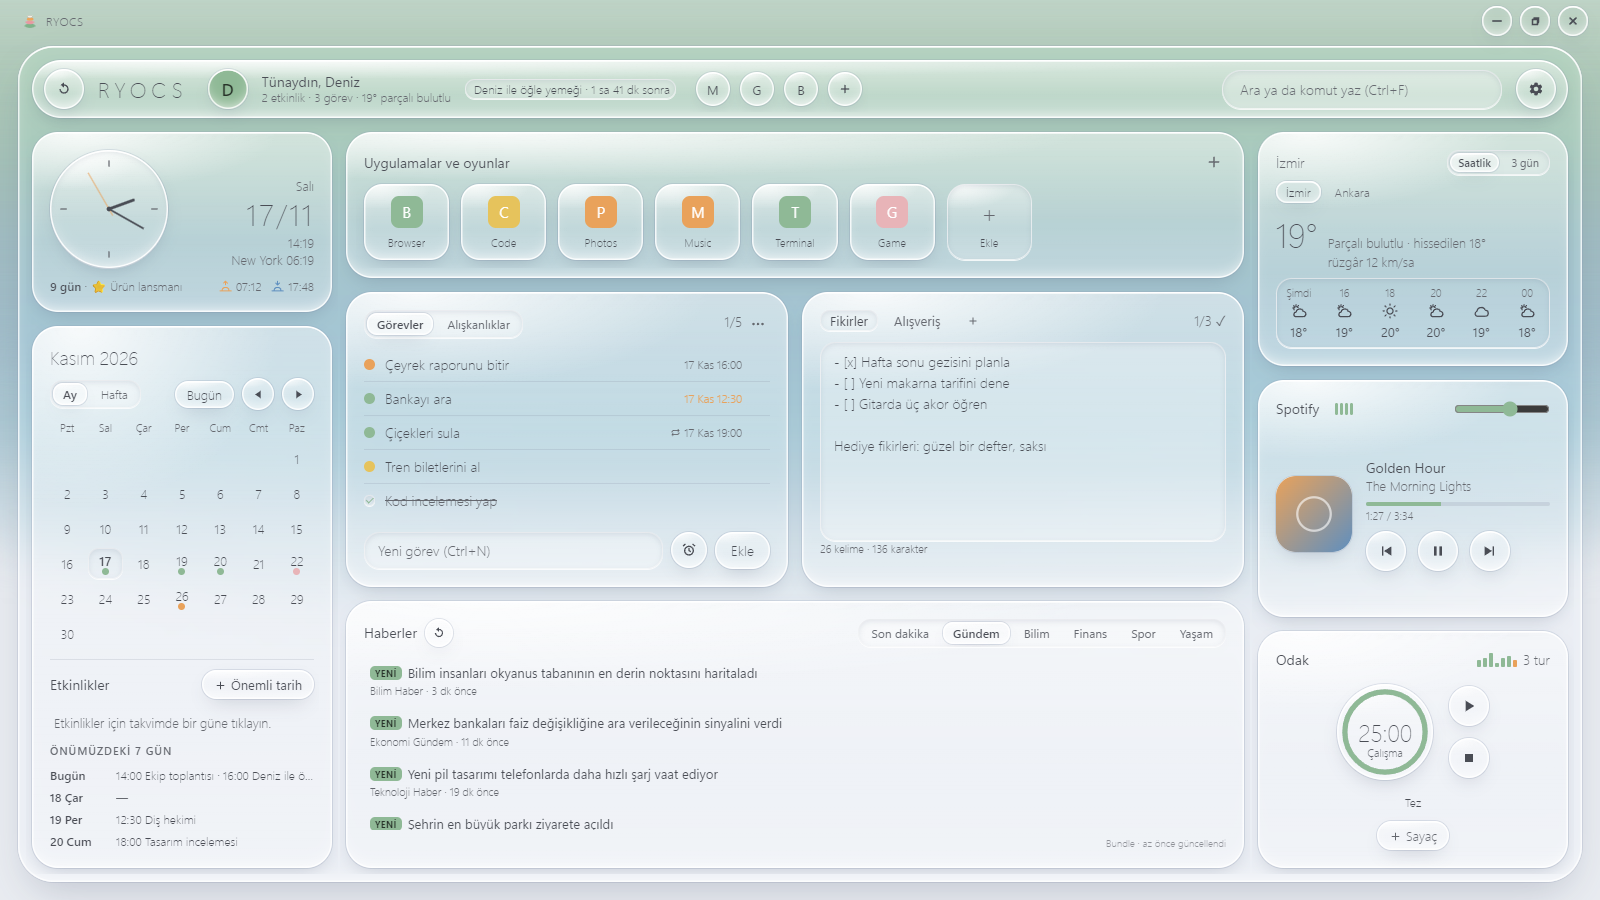
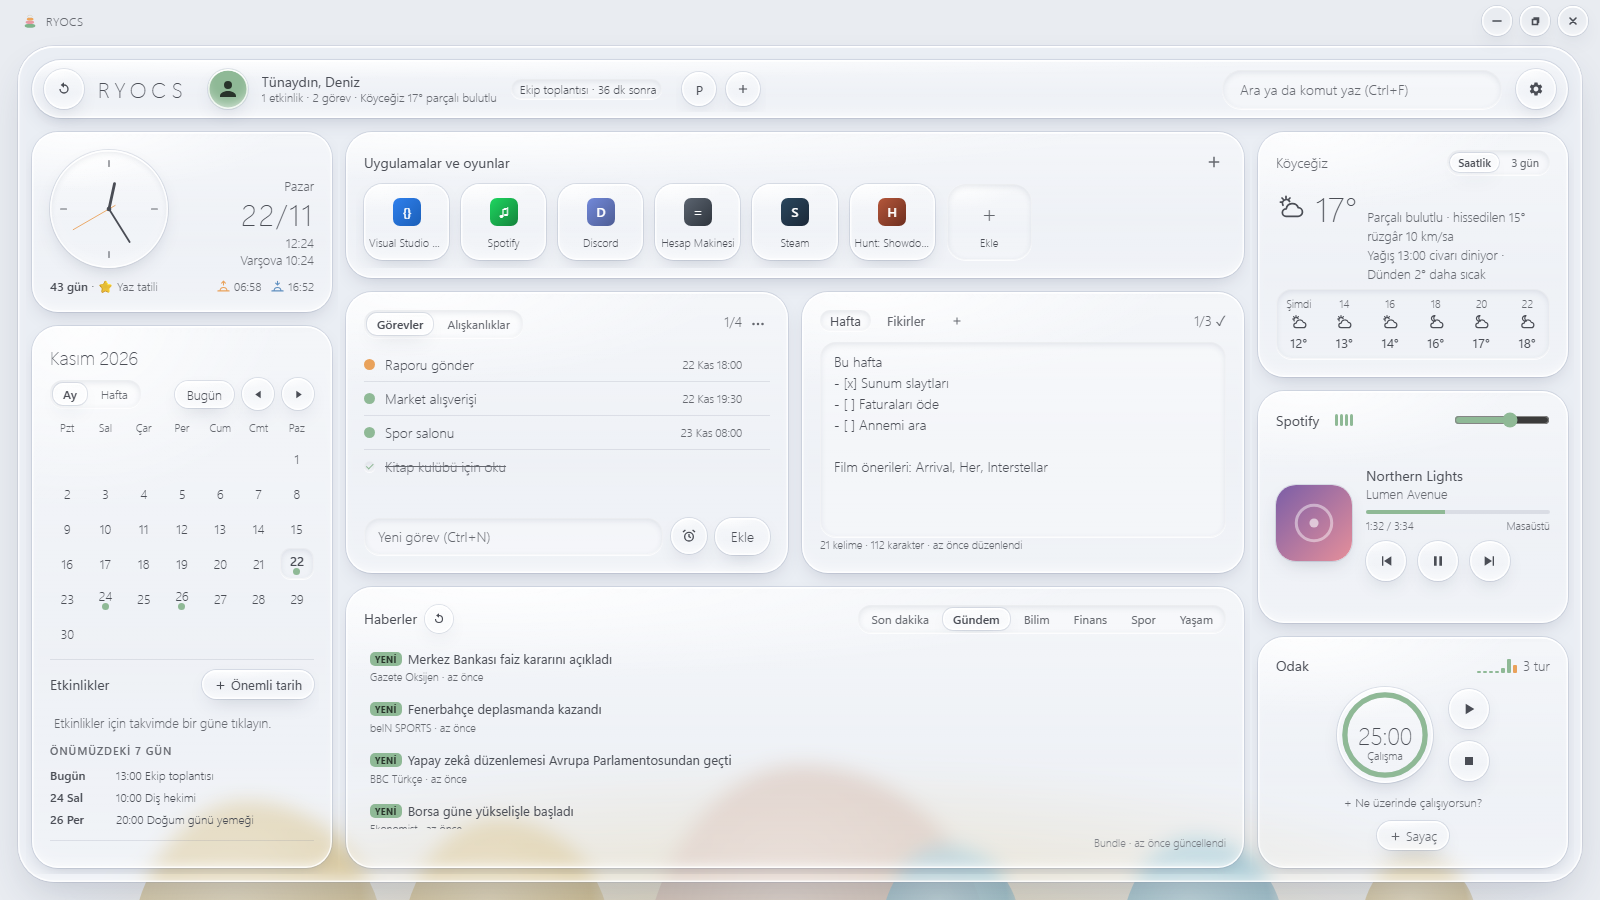
New screenshots and feature texts for 1.1.9
All screenshots retaken with demo data in English and Turkish, plus two new
ones (large weather card, screen time). The project page's feature boxes now
list what the cards gained in 1.1.5–1.1.9, with a new Screen time box.

diff --git a/docs/index.html b/docs/index.html
@@ -94,19 +94,20 @@ dialog img{display:block;max-width:100%;max-height:92vh;border-radius:12px}
   <h2 data-tr="Gün içinde baktığın her şey">Everything you check during the day</h2>
   <p class="lead" data-tr="Her kart taşınabilir, boyutlandırılabilir, gizlenebilir ve zevkine göre ayarlanabilir. Yalnız ihtiyacın olanları aç.">Each card can be moved, resized, hidden or tuned to taste. Turn on only what you need.</p>
   <div class="grid">
-    <div class="f"><i>🕐</i><h3 data-tr="Saat">Clock</h3><p data-tr="On kadran stili, 36 şehirden ikinci saat, gün doğumu ve batımı, geri sayımlar.">Ten dial styles, a second clock with 36 cities, sunrise and sunset, and countdowns.</p></div>
-    <div class="f"><i>📅</i><h3 data-tr="Google Takvim">Google Calendar</h3><p data-tr="Ay ve hafta görünümü; etkinlik ekle, düzenle, sil; doğum günleri, önemli tarihler ve resmî tatiller.">Month and week views; add, edit and delete events; birthdays, important dates and your regional holidays.</p></div>
-    <div class="f"><i>✅</i><h3 data-tr="Görevler ve alışkanlıklar">Tasks and habits</h3><p data-tr="Hatırlatıcılar, istediğin günlerde tekrar, öncelikler, geciken görevler ve alışkanlık serileri.">Reminders, repeats on any days you like, priorities, overdue tracking and habit streaks.</p></div>
-    <div class="f"><i>📝</i><h3 data-tr="Notlar">Notes</h3><p data-tr="Yapılacak kutulu hızlı notlar, sekmelerde birden çok not, kelime sayısı ve arama.">Quick notes with checklists, several notes in tabs, word count and full search.</p></div>
+    <div class="f"><i>🕐</i><h3 data-tr="Saat">Clock</h3><p data-tr="On kadran stili, alarmlar, 36 şehirden ikinci saat, gün doğumu ve batımı, geri sayımlar.">Ten dial styles, alarms, a second clock with 36 cities, sunrise and sunset, and countdowns.</p></div>
+    <div class="f"><i>📅</i><h3 data-tr="Google Takvim">Google Calendar</h3><p data-tr="Ay ve hafta görünümü; etkinlik ekle, düzenle, sil; toplantıya tek tıkla katıl ya da yeri haritada aç; doğum günleri, önemli tarihler ve resmî tatiller.">Month and week views; add, edit and delete events; join a meeting or open the place in Maps with one click; birthdays, important dates and your regional holidays.</p></div>
+    <div class="f"><i>✅</i><h3 data-tr="Görevler ve alışkanlıklar">Tasks and habits</h3><p data-tr="Sonuna “yarın 15:00” yaz, hatırlatıcı kurulsun; erteleme, istediğin günlerde tekrar, öncelikler ve alışkanlık serileri.">Type “tomorrow 3 pm” at the end for a reminder; snooze, repeats on any days you like, priorities and habit streaks.</p></div>
+    <div class="f"><i>📝</i><h3 data-tr="Notlar">Notes</h3><p data-tr="Yapılacak kutulu hızlı notlar, sekmelerde birden çok not, işaretlenenleri tek seferde temizleme, kelime sayısı ve arama.">Quick notes with checklists, several notes in tabs, clearing checked items in one go, word count and full search.</p></div>
     <div class="f"><i>⛅</i><h3 data-tr="Hava durumu">Weather</h3><p data-tr="Open-Meteo'dan saatlik ve 7 günlük tahmin, beş şehre kadar; aynı adlı yerlerde doğru olanı sen seçersin. Yağmurun ne zaman başlayacağı, dünle kıyas, hava kalitesi ve polen; sabah uyarısı ve akşam yarının havası.">Hourly and 7-day forecasts from Open-Meteo for up to five cities; when several places share a name, you pick the right one. When rain starts, the difference from yesterday, air quality and pollen; a morning alert and tomorrow's weather in the evening.</p></div>
-    <div class="f"><i>📰</i><h3 data-tr="Haberler">News</h3><p data-tr="Türkçede Bundle ve TRT Haber, İngilizcede BBC News. İstemediğin kelimeleri ve kaynakları gizle.">BBC News by category in English, Turkish sources in Turkish. Filter out keywords and sources.</p></div>
-    <div class="f"><i>🎵</i><h3 data-tr="Spotify">Spotify</h3><p data-tr="Çalan şarkıyı gör, geç, duraklat, sesi ayarla ve sıradakilere göz at.">See what is playing, skip, pause, change the volume and peek at what is up next.</p></div>
+    <div class="f"><i>📰</i><h3 data-tr="Haberler">News</h3><p data-tr="Türkçede Bundle ve TRT Haber, İngilizcede BBC News. İstemediğin kelimeleri ve kaynakları gizle, sonra okumak için kaydet.">BBC News by category in English, Turkish sources in Turkish. Filter out keywords and sources, save stories for later.</p></div>
+    <div class="f"><i>🎵</i><h3 data-tr="Spotify">Spotify</h3><p data-tr="Çalan şarkı ya da podcast; geç, duraklat, ileri sar, karıştır ve tekrarla, sesi ayarla, başka cihaza aktar ve sıradakilere göz at.">What is playing, podcasts too: skip, pause, seek, shuffle and repeat, change the volume, move playback to another device and peek at what is up next.</p></div>
     <div class="f"><i>⏱</i><h3 data-tr="Odak sayacı">Focus timer</h3><p data-tr="Günlük hedef ve seriyle pomodoro turları. Neye çalıştığını yaz, haftalık dökümünü gör, “Çalışma” ve “Mola” adlarını değiştir. Rahatsız etme, bildirimleri tur bitene kadar bekletir.">Pomodoro rounds with a daily goal and streak. Note what you are working on, see a weekly breakdown, and rename “Work” and “Break”. Do not disturb holds notifications until the round ends.</p></div>
-    <div class="f"><i>✉</i><h3 data-tr="Gmail">Gmail</h3><p data-tr="Gelen kutusundaki son 15 mail, okunmamışlar kalın. Tıklayınca tarayıcıda açılır, sağ tıkla okundu işaretlenir.">The last 15 messages in your inbox, unread ones in bold. Click to open in the browser, right-click to mark as read.</p></div>
-    <div class="f"><i>💱</i><h3 data-tr="Kur, sistem, pano">Rates, system, clipboard</h3><p data-tr="Döviz ve altın, işlemci, bellek, disk ve pil, ayrıca gizliliğe saygılı pano geçmişi.">Currency and gold prices, CPU, memory, disk and battery, and a private clipboard history.</p></div>
+    <div class="f"><i>✉</i><h3 data-tr="Gmail">Gmail</h3><p data-tr="Gelen kutusundaki son 15 mail, okunmamışlar kalın. Tıklayınca tarayıcıda açılır; sağ tıkla okundu ya da okunmadı işaretle, arşivle. Yeni mail gelince bildirim.">The last 15 messages in your inbox, unread ones in bold. Click to open in the browser; right-click to mark as read or unread, or to archive. A notification for new mail.</p></div>
+    <div class="f"><i>💱</i><h3 data-tr="Kur, sistem, pano">Rates, system, clipboard</h3><p data-tr="Çeviricili ve alarmlı döviz ve altın; son dakikasıyla işlemci, bellek, bütün diskler ve pil; sabitlenebilen, gizliliğe saygılı pano geçmişi.">Currency and gold with a converter and alerts; CPU with its last minute, memory, every drive and battery; a private clipboard history with pins.</p></div>
+    <div class="f"><i>⏳</i><h3 data-tr="Ekran süresi">Screen time</h3><p data-tr="Bugün ve son 7 günde hangi programda ne kadar kaldın; program başına günlük sınır ve uyarı. Sen açana kadar kapalı, veriler bilgisayarında kalır.">How long you spent in each program today and over the last 7 days, with a daily limit per program. Off until you open it; the data stays on your PC.</p></div>
     <div class="f"><i>🚀</i><h3 data-tr="Uygulamalar ve oyunlar">Apps and games</h3><p data-tr="Uygulamaları, oyunları ve Steam ya da Epic kısayollarını tek tıkla aç; son ve en çok açılanlar elinin altında.">Open apps, games and Steam or Epic shortcuts with one click, with recently and most opened ones at hand.</p></div>
     <div class="f"><i>🔎</i><h3 data-tr="Her şeyi ara">Search everything</h3><p data-tr="Ctrl+F ile uygulamaları, görevleri, notları, etkinlikleri ve komutları tek yerden bul.">Press Ctrl+F to find apps, tasks, notes, events and commands in one place.</p></div>
-    <div class="f"><i>🎨</i><h3 data-tr="Kendine göre ayarla">Make it yours</h3><p data-tr="16 tema, cam görünüm, lav lambası dahil 11 hareketli arka plan, vurgu renkleri, sürükleyerek boyutlandırma ve kayıtlı yerleşimler.">16 themes, glass look, 11 animated backgrounds including a lava lamp, accent colours, drag-to-resize layout and saved layouts.</p></div>
+    <div class="f"><i>🎨</i><h3 data-tr="Kendine göre ayarla">Make it yours</h3><p data-tr="16 tema, cam görünüm, lav lambası dahil 11 hareketli arka plan (ya da her açılışta rastgele biri), vurgu renkleri, sürükleyerek boyutlandırma ve kayıtlı yerleşimler.">16 themes, glass look, 11 animated backgrounds including a lava lamp (or a random one each time), accent colours, drag-to-resize layout and saved layouts.</p></div>
     <div class="f"><i>🖥</i><h3 data-tr="Tepside yaşar">Lives in the tray</h3><p data-tr="Kapatınca tepside çalışmaya devam eder; her yerden bir kısayolla aç, istersen Windows'la başlasın.">Closing keeps it running in the tray. Open it from anywhere with a shortcut, and let it start with Windows if you like.</p></div>
     <div class="f"><i>🔒</i><h3 data-tr="Gizlilik öncelikli">Private by design</h3><p data-tr="Verilerin kendi kullanıcı klasöründe kalır. İsteğe bağlı PIN kilidi, günlük yedek ve OneDrive eşitleme.">Your data stays in your user folder. Optional PIN lock, daily backups and OneDrive sync.</p></div>
     <div class="f"><i>🔔</i><h3 data-tr="Güncel kalır">Stays up to date</h3><p data-tr="Yeni sürüm çıkınca küçük bir bildirim ve indirme bağlantısı gösterir. Kurulumu sen başlatırsın; kendiliğinden hiçbir şey kurulmaz.">Shows a small notice with a download link when a new version is out. You start the install; nothing installs by itself.</p></div>
@@ -119,8 +120,10 @@ dialog img{display:block;max-width:100%;max-height:92vh;border-radius:12px}
   <div class="gal">
     <figure><img src="img/dark.png" data-tr-src="img/dark-tr.png" alt="Dark theme with Gmail, calendar, news, currency, system and clipboard cards" data-tr-alt="Gmail, takvim, haber, kur, sistem ve pano kartlarıyla koyu tema" loading="lazy" width="1600" height="900"><figcaption data-tr="Gmail, kur, sistem bilgisi ve pano geçmişiyle koyu tema">Dark theme with Gmail, rates, system info and clipboard history</figcaption></figure>
     <figure><img src="img/search.png" data-tr-src="img/search-tr.png" alt="Search results grouped into commands, tasks, habits, notes and events" data-tr-alt="Komut, görev, alışkanlık, not ve etkinlik olarak gruplanmış arama sonuçları" loading="lazy" width="1600" height="900"><figcaption data-tr="Uygulamalar, görevler, notlar, etkinlikler ve komutlar için tek arama kutusu">One search box for apps, tasks, notes, events and commands</figcaption></figure>
-    <figure><img src="img/settings.png" data-tr-src="img/settings-tr.png" alt="Appearance settings with light and dark themes" data-tr-alt="Açık ve koyu temalarla görünüm ayarları" loading="lazy" width="1600" height="900"><figcaption data-tr="On iki tema ve otomatik gündüz/gece geçişi">Twelve themes and an automatic day/night switch</figcaption></figure>
+    <figure><img src="img/settings.png" data-tr-src="img/settings-tr.png" alt="Appearance settings with light and dark themes" data-tr-alt="Açık ve koyu temalarla görünüm ayarları" loading="lazy" width="1600" height="900"><figcaption data-tr="On altı tema ve otomatik gündüz/gece geçişi">Sixteen themes and an automatic day/night switch</figcaption></figure>
     <figure><img src="img/glass.png" data-tr-src="img/glass-tr.png" alt="The dashboard in the glass look" data-tr-alt="Cam görünümde panel" loading="lazy" width="1600" height="900"><figcaption data-tr="Açık temada cam görünüm">The glass look on a light theme</figcaption></figure>
+    <figure><img src="img/weather.png" data-tr-src="img/weather-tr.png" alt="A large weather card with details, a 24-hour curve, air quality and a 7-day forecast" data-tr-alt="Ayrıntılar, 24 saatlik eğri, hava kalitesi ve 7 günlük tahminle büyük hava kartı" loading="lazy" width="1600" height="900"><figcaption data-tr="Büyütülen hava kartı: ayrıntılar, hava kalitesi, polen ve 7 gün">The weather card made large: details, air quality, pollen and 7 days</figcaption></figure>
+    <figure><img src="img/screentime.png" data-tr-src="img/screentime-tr.png" alt="The screen time card under the focus timer, in the night blue theme" data-tr-alt="Gece mavisi temada odak sayacının altında ekran süresi kartı" loading="lazy" width="1600" height="900"><figcaption data-tr="Ekran süresi: bugün hangi programda ne kadar kaldın, son 7 gün">Screen time: how long in each program today, and the last 7 days</figcaption></figure>
   </div>
 </div></section>
 

diff --git a/README.md b/README.md
@@ -17,6 +17,8 @@ The interface is in **English** and **Turkish**. It follows the Windows display 
 | ![Dark theme with Gmail, calendar, news, currency, system and clipboard cards](docs/img/dark.png) | ![Search results grouped into commands, tasks, habits, notes and events](docs/img/search.png) |
 | **Themes** | **Glass look** |
 | ![Appearance settings with light and dark themes](docs/img/settings.png) | ![The dashboard in the glass look](docs/img/glass.png) |
+| **Weather, made large** | **Screen time** |
+| ![A large weather card with details, a 24-hour curve, air quality and a 7-day forecast](docs/img/weather.png) | ![The screen time card under the focus timer](docs/img/screentime.png) |
 
 *Screenshots use demo data.*
 
